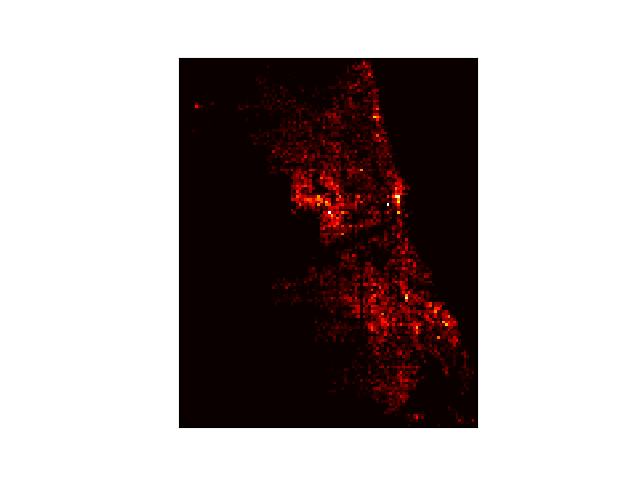
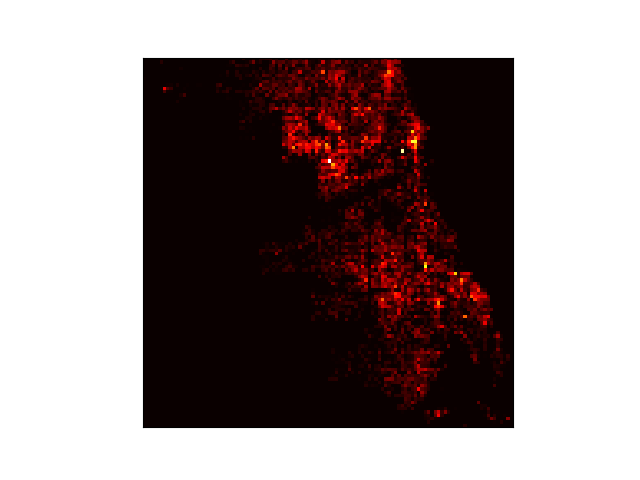
plot fixed

Changed region(s): [[0.3438, 0.0938, 0.8125, 0.9062], [0.2188, 0.0938, 0.2812, 0.9062]]

diff --git a/data_plot.py b/data_plot.py
@@ -41,6 +41,11 @@ def makeHeatmap(X, Y, sev, data_reduce):
 	x_len = np.max(X) - x_min
 	y_len = np.max(Y) - y_min
 
+	x_min = 1094.231
+	y_min = 1813.91
+	x_len = 110.886
+	y_len = 110.886
+
 	#shift to [0,0] to save figure space
 	x_shift = X - x_min
 	y_shift = Y - y_min
